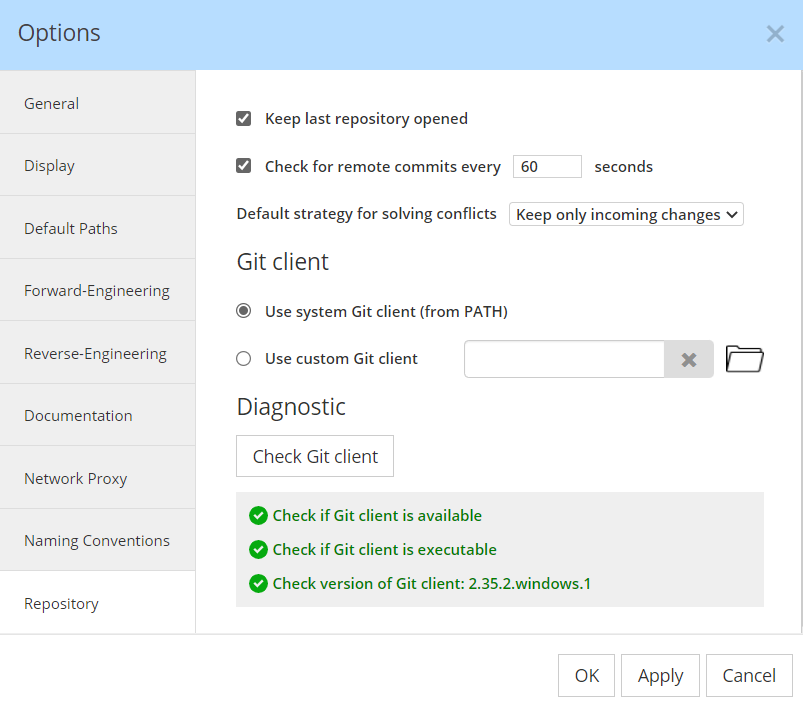
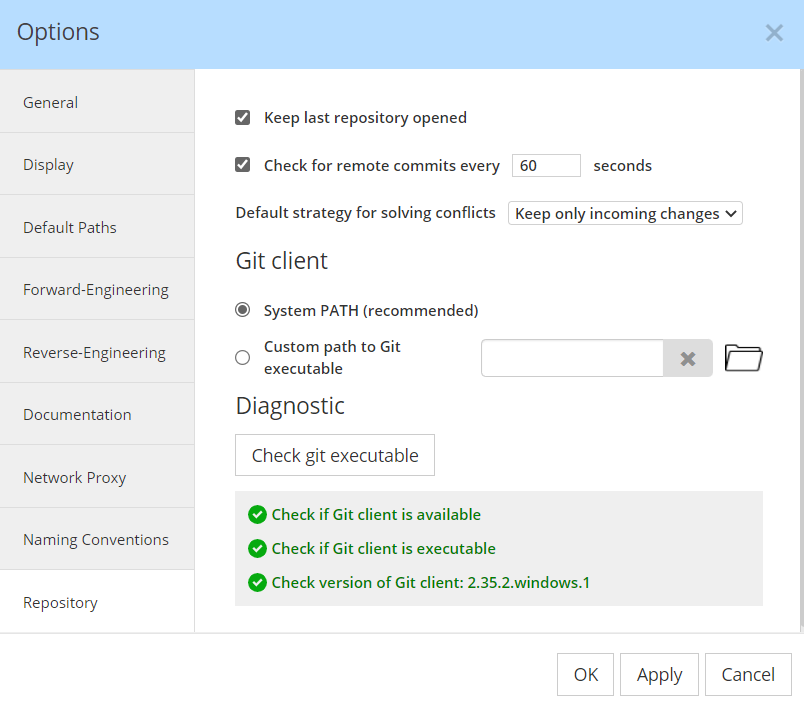
v6.0.8

diff --git a/Studio/Pre-requisites.md b/Studio/Pre-requisites.md
@@ -3,7 +3,7 @@
 There are 2 pre-requisites for using the Workgroup Edition of Hackolade Studio:
 
 * you or your organization must have purchased the Workgroup Edition, or the Workgroup upgrade option to the Professional Edition. This repository feature is not available in the Community, Personal or Professional Editions. If you don't have the Workgroup Edition yet, you may contact us at [sales@hackolade.com](<mailto:sales@hackolade.com?subject=Interested%20in%20Workgroup%20Edition>).
-* a Git client must be installed on your computer.&nbsp;
+* you must have a Git client installed on your computer.&nbsp;
 
 &nbsp;
 
@@ -28,17 +28,39 @@ If you do have the Workgroup Edition, then **look at the top bar while in the Re
 
 &nbsp;
 
-Either you do have a Git client but it has not been made available globally through the PATH environment variable.&nbsp; You can then configure the path to your Git client in Hackolade Studio: click the "Open Git settings" button or go to Tools \> Options \> Repository.&nbsp;
+## The Git executable is already present
+
+If you already have a Git client installed, it should normally be available globally through the PATH environment variable.&nbsp; You can perform a diagnostic of your Git installation in Tools \> Options \> Repository.
+
+&nbsp;
+
+![Workgroup tools options repository](<lib/Workgroup%20tools%20options%20repository.png>)
 
 &nbsp;
 
 &nbsp;
 
-![Workgroup Git diagnostic](<lib/Workgroup%20tools%20options%20repository.png>)
+You may also specify a custom path to your Git client. &nbsp;
 
 &nbsp;
 
-Or you don't have a Git client yet and you need to install one.&nbsp; You may have to ask your IT department to install the latest version of the Git client from [the official Git website](<https://git-scm.com/downloads> "target=\"\_blank\""), and follow [these instructions](<https://git-scm.com/book/en/v2/Getting-Started-Installing-Git> "target=\"\_blank\"").&nbsp; During the installation process, make sure to NOT disable the use of the credential manager (it is enabled by default).&nbsp; This is the safest way for your Git client to store your credentials and to avoid prompting you every time they are needed.
+**Note:** Be careful that GitHub Desktop, SourceTree and other visual applications are NOT the Git client the we're looking for here.&nbsp; They are GUI applications also leveraging the system Git executable.&nbsp; If you specify a custom path, it must be to the Git executable.
+
+&nbsp;
+
+With GitHub Desktop, it is possible that the installation did not declare the location of the Git executable in the system PATH.&nbsp; This is a [well documented situation](<https://stackoverflow.com/questions/26620312/git-installing-git-in-path-with-github-client-for-windows> "target=\"\_blank\"")...&nbsp; Possible locations for the Git executable are:
+
+**C:\\Program Files\\Git\\bin\\git.exe**
+
+**C:\\Users\\%username%\\AppData\\Local\\GitHub\\PortableGit\_\<guid\>\\cmd\\git.exe** (GitHub for Windows prior to version 1.1)
+
+**C:\\Users\\%username%\\AppData\\Local\\GitHubDesktop\\app-3.0.0\\resources\\app\\git\\cmd\\git.exe** (GitHub Desktop version 1.1 and above)
+
+&nbsp;
+
+## Installing the Git executable
+
+You need to install a Git client if one is not yet present on your machine.&nbsp; You may have to ask your IT department to install the latest version of the Git client from [the official Git website](<https://git-scm.com/downloads> "target=\"\_blank\""), and follow [these instructions](<https://git-scm.com/book/en/v2/Getting-Started-Installing-Git> "target=\"\_blank\"").&nbsp; During the installation process, make sure to NOT disable the use of the credential manager (it is enabled by default).&nbsp; This is the safest way for your Git client to store your credentials and to avoid prompting you every time they are needed.
 
 &nbsp;
 
@@ -48,5 +70,5 @@ Or you don't have a Git client yet and you need to install one.&nbsp; You may ha
 
 &nbsp;
 
-Note that, in case of problems, you can perform at any time a diagnostic of your Git installation in Tools \> Options \> Repository.
+&nbsp;
 

diff --git a/Studio/v6x.md b/Studio/v6x.md
@@ -1,5 +1,39 @@
 # v6.x
 
+New features in v6.0.8 \[13-May-2022\]
+
+\- References to external definitions: fixed display of relative path
+
+\- Polyglot: added creation of many-to-many join table when normalizing on-the-fly to an RDBMS target during deriving from denormalized polyglot model
+
+\- Workgroup: added Tools \> Options Repository check for adequate Git executable when specifying a custom path
+
+\- Workgroup: minimized chatty git logging when auto-checking for remote commits
+
+\- Workgroup: fixed refresh of model list when checking out a new branch
+
+\- Avro: added min/max length properties for string data type, for documentation purposes only
+
+\- Avro: added support for reverse-engineering of schemas with empty records
+
+\- Delta Lake/Databricks: added fallback for getting view names and improve logging
+
+\- Delta Lake/Databricks: added handling for syntax of USING, BLOOMFILTER, TBLPROPERTIES, and PARTITIONED BY when reverse-engineering from HQL file
+
+\- Delta Lake/Databricks:&nbsp; added support for forward- and reverse-engineering of DISABLE NOVALIDATE
+
+\- Hive:&nbsp; added support for forward- and reverse-engineering of DISABLE NOVALIDATE
+
+\- MongoDB version 5 and higher: added support for Time Series collections
+
+\- OpenAPI and EventBridge Schema Registry: added support for media type including dots
+
+\- Redshift: added support for forward- and reverse-engineering of schema, table, and column comments
+
+\- Synapse: added support for forward- and reverse-engineering of partition keys
+
+&nbsp;
+
 New features in v6.0.7 \[06-May-2022\]
 
 \- Added handling of circular external references in JSON Schema&nbsp;

diff --git a/Studio/Openalocalrepository.md b/Studio/Openalocalrepository.md
@@ -26,4 +26,4 @@ Note that Hackolade Studio automatically reopens the last repository by default 
 
 &nbsp;
 
-![Workgroup tools options repository](<lib/Workgroup%20tools%20options%20repository.png>)
+![Workgroup tools options repository](<lib/NewItem4.png>)
